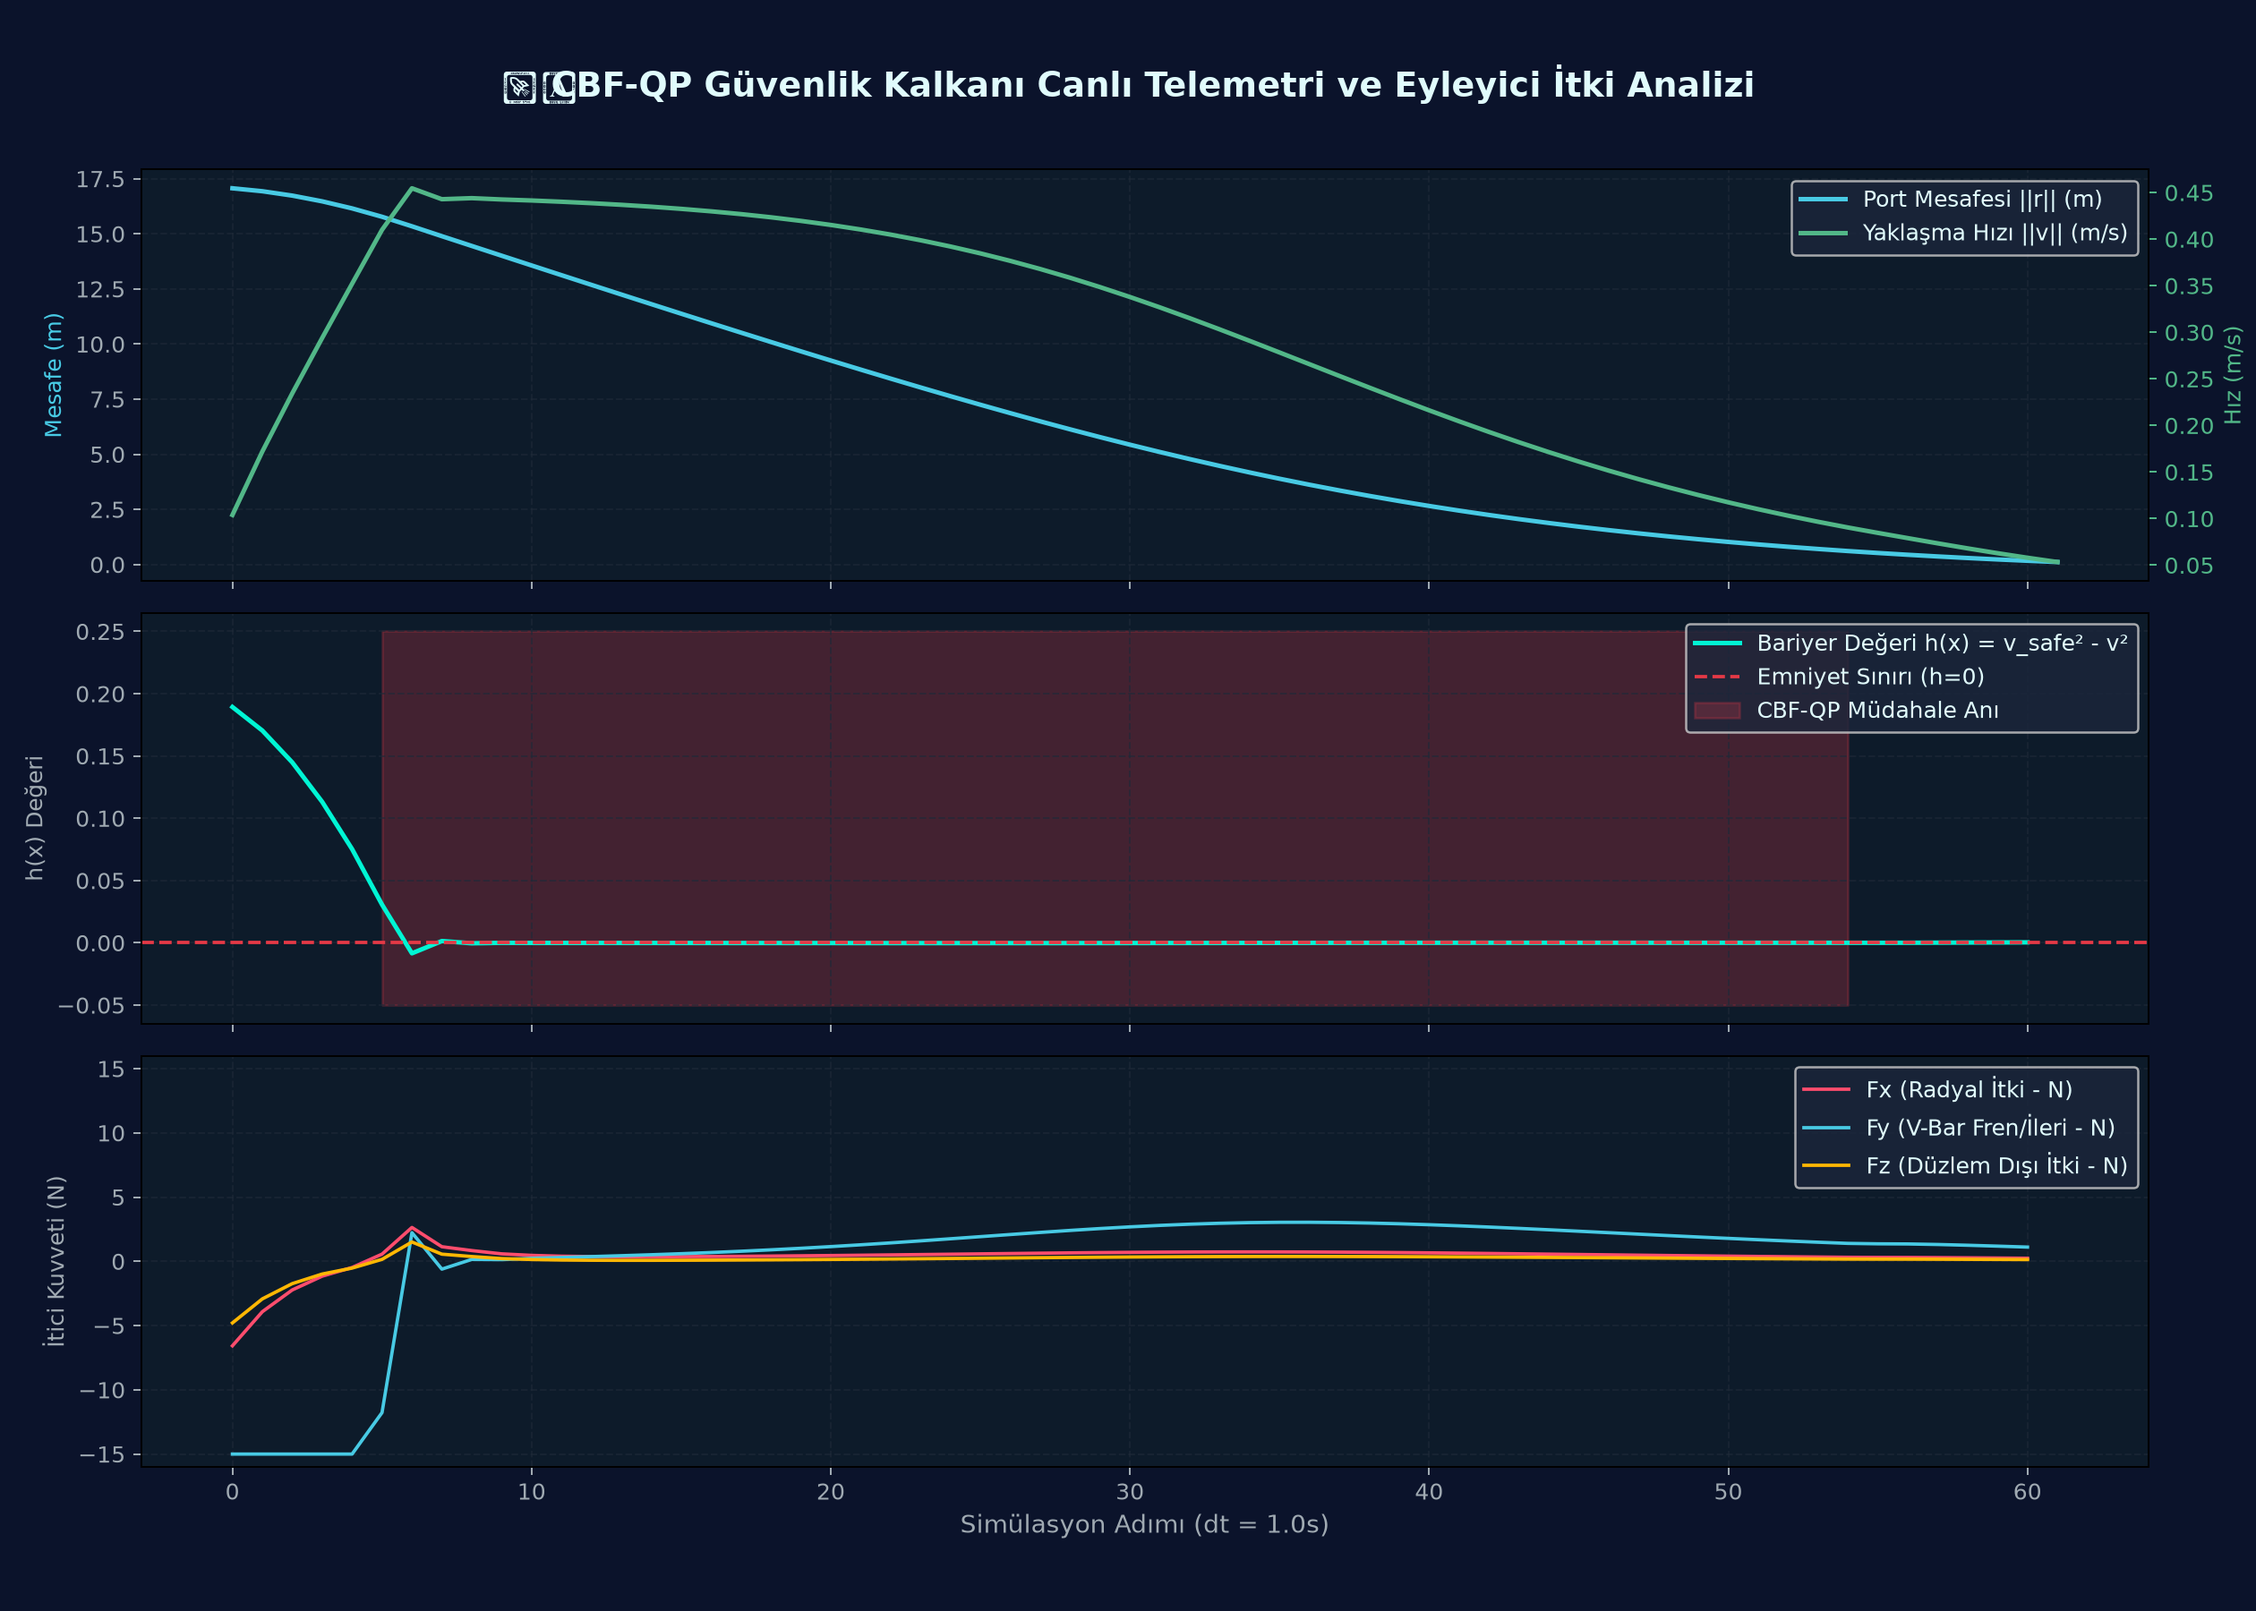
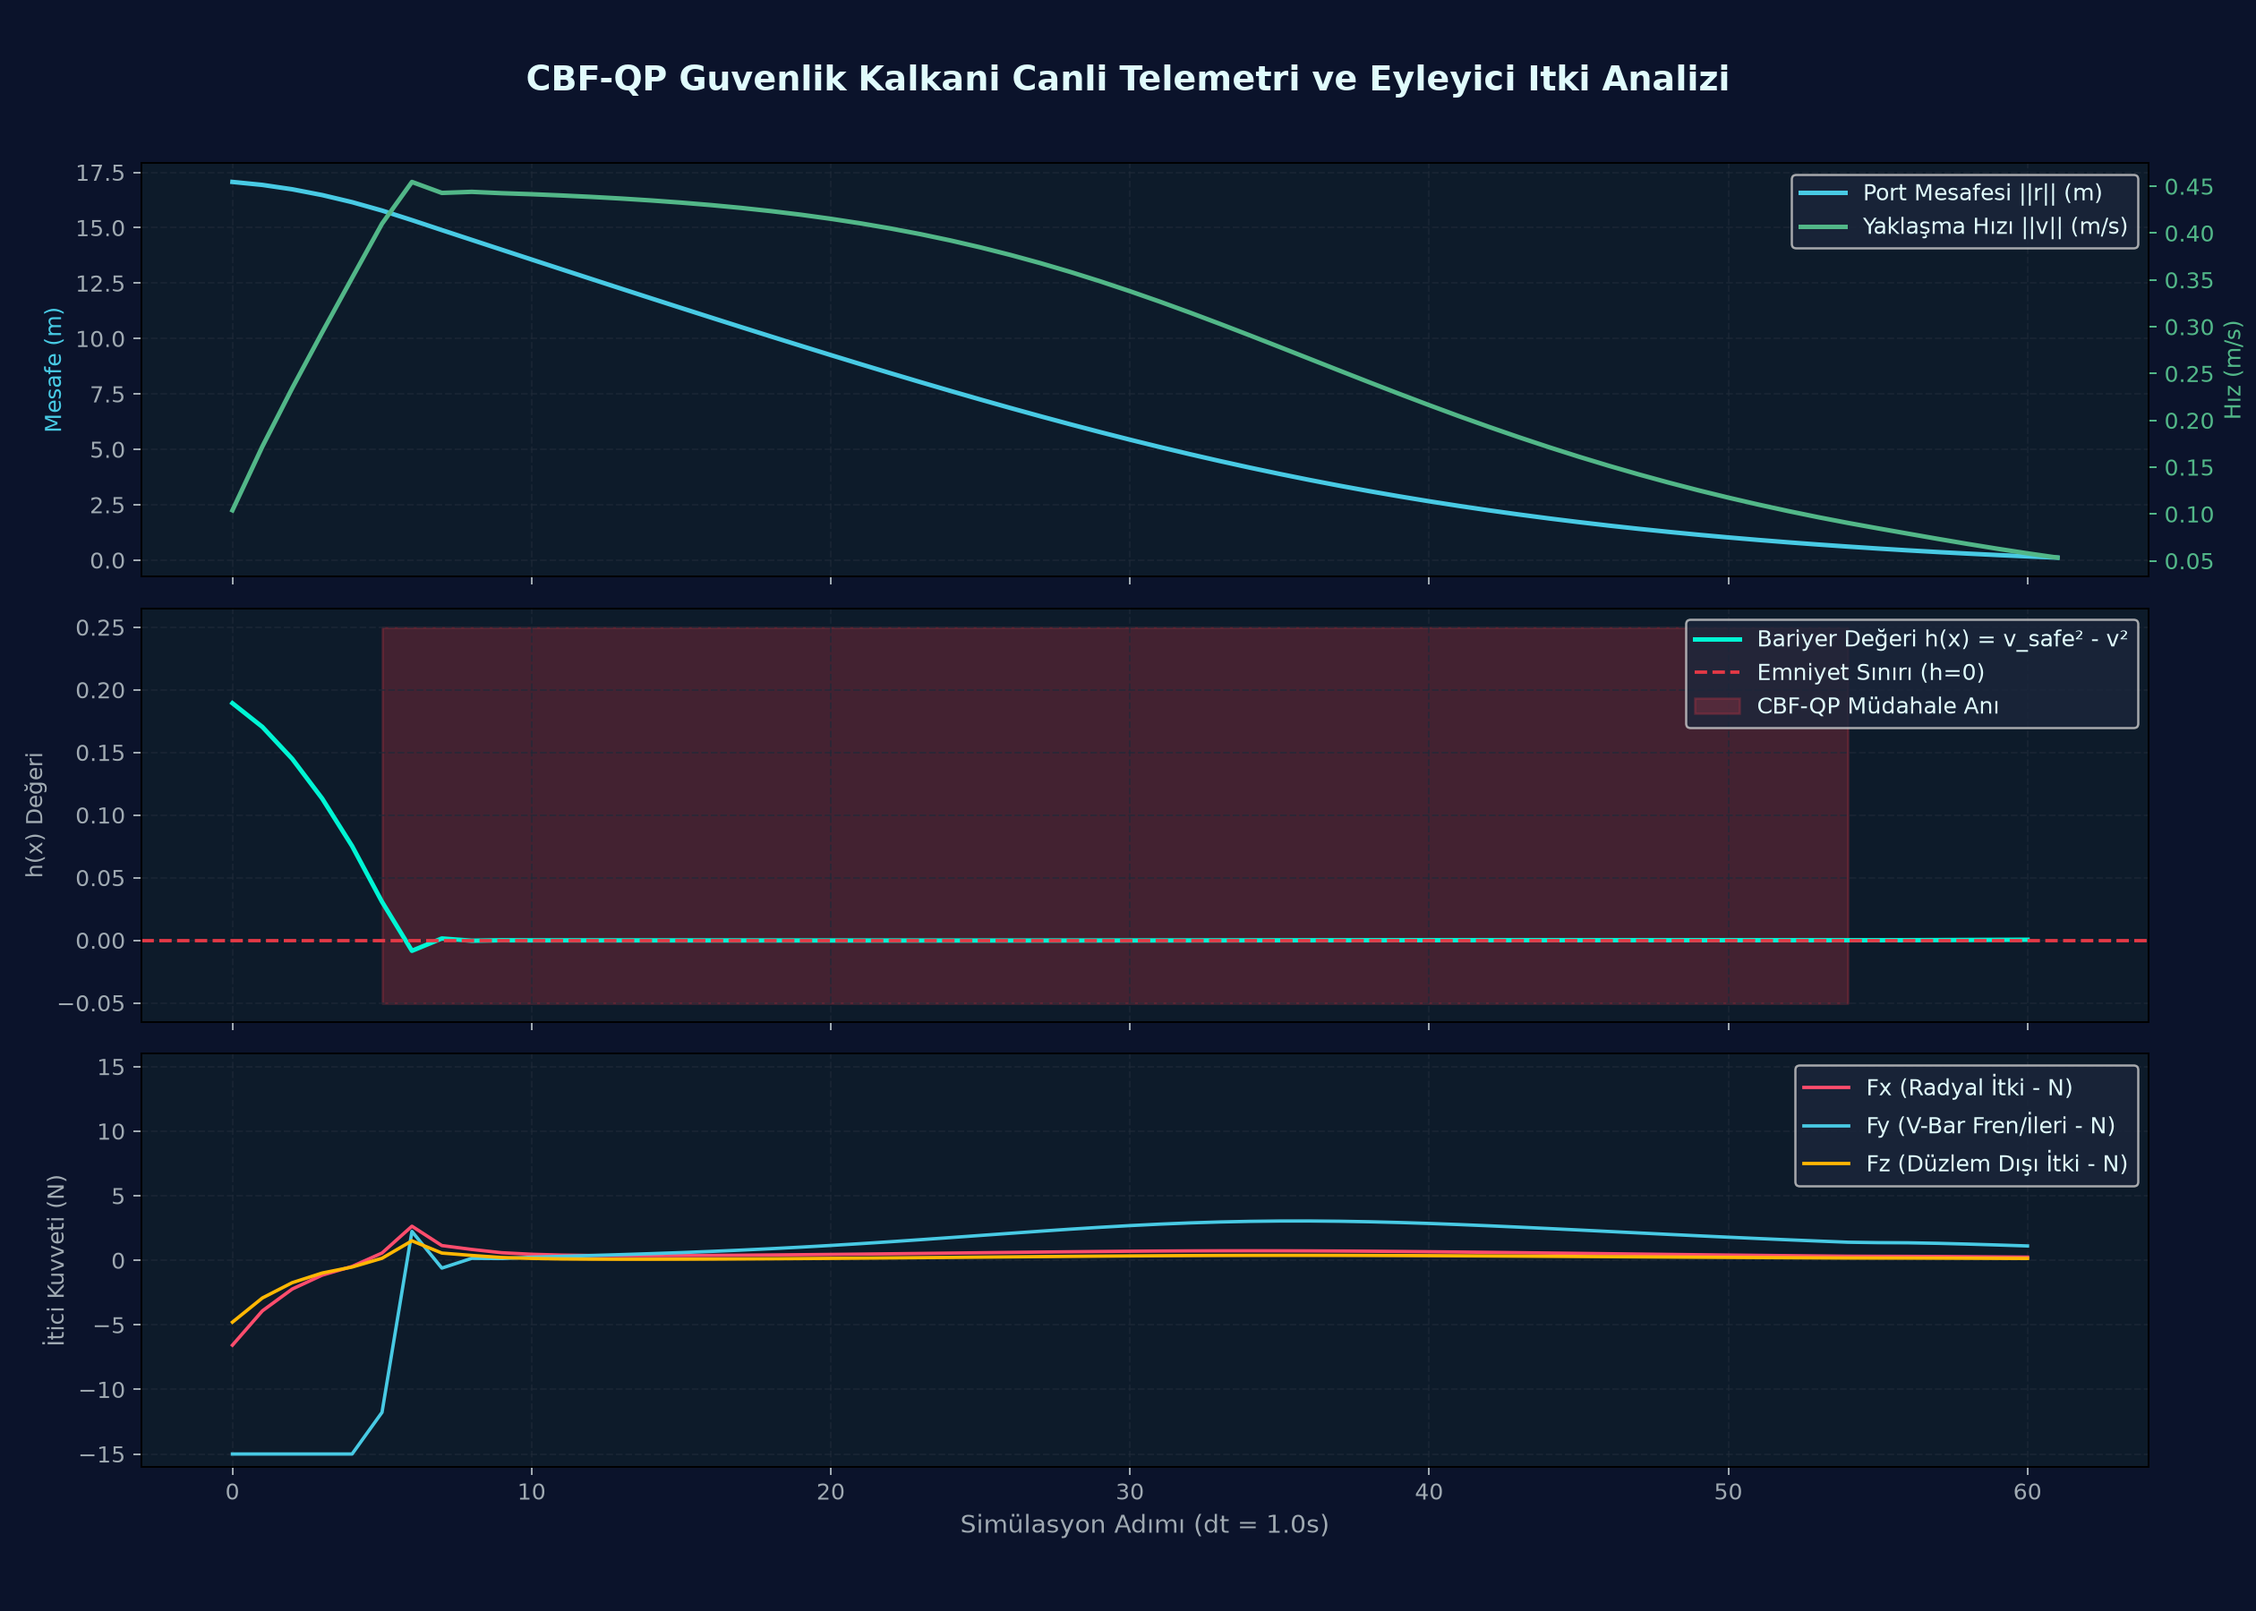
fix(telemetry): suppress SB3 GPU warning and sanitize matplotlib plot titles

diff --git a/run_rl_experiments.py b/run_rl_experiments.py
@@ -126,7 +126,7 @@ def run_benchmark(num_episodes=15):
     pbrs_model = None
     if os.path.exists(pbrs_model_path) and HAS_SB3:
         try:
-            pbrs_model = PPO.load(pbrs_model_path)
+            pbrs_model = PPO.load(pbrs_model_path, device="cpu")
             print(f"📦 Yakınsanmış PBRS Modeli yüklendi: {pbrs_model_path}")
         except Exception as e:
             print(f"Model yüklenemedi: {e}")
@@ -353,7 +353,7 @@ def print_benchmark_table(results, num_episodes):
 
 def plot_benchmark_overview(results, num_episodes):
     fig = plt.figure(figsize=(18, 12), facecolor="#0B132B")
-    fig.suptitle("🛰 Orbital-RL Gelişmiş Algoritma ve Simülasyon Kıyaslama Raporu",
+    fig.suptitle("Orbital-RL: Gelismis Algoritma ve Simulasyon Kiyaslama Raporu",
                  fontsize=18, fontweight="bold", color="#E0FBFC", y=0.97)
 
     # 1. 3D Yörünge Karşılaştırması
@@ -458,7 +458,7 @@ def plot_benchmark_overview(results, num_episodes):
 
 def plot_cbf_shield_telemetry(cbf_data):
     fig, axes = plt.subplots(3, 1, figsize=(14, 10), facecolor="#0B132B", sharex=True)
-    fig.suptitle("🛡 CBF-QP Güvenlik Kalkanı Canlı Telemetri ve Eyleyici İtki Analizi",
+    fig.suptitle("CBF-QP Guvenlik Kalkani Canli Telemetri ve Eyleyici Itki Analizi",
                  fontsize=15, fontweight="bold", color="#E0FBFC", y=0.96)
 
     traj = np.array(cbf_data["traj"])
